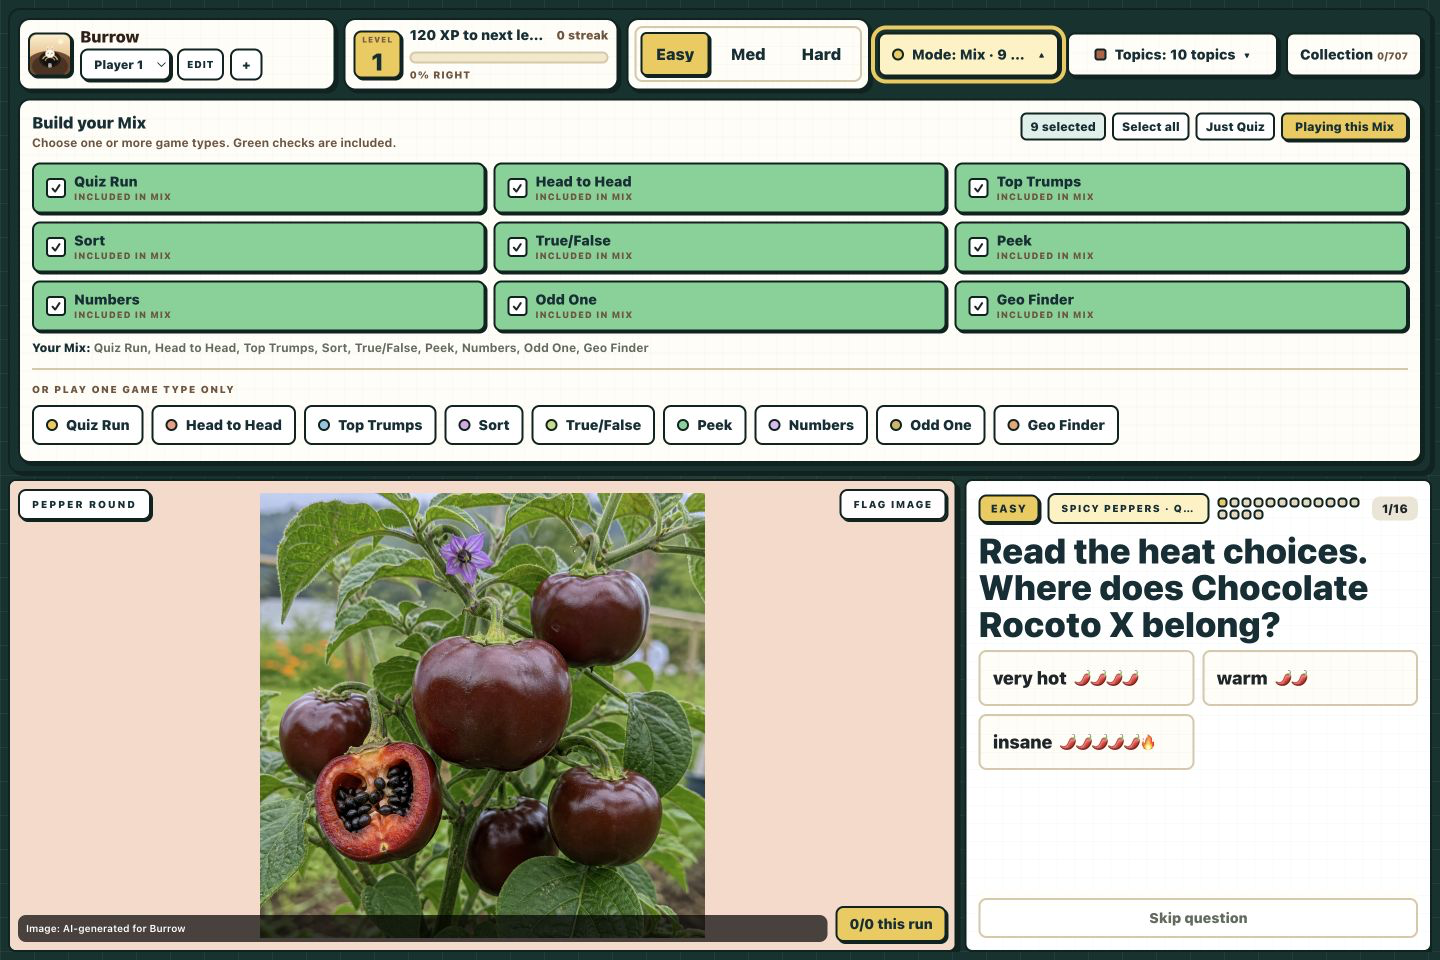
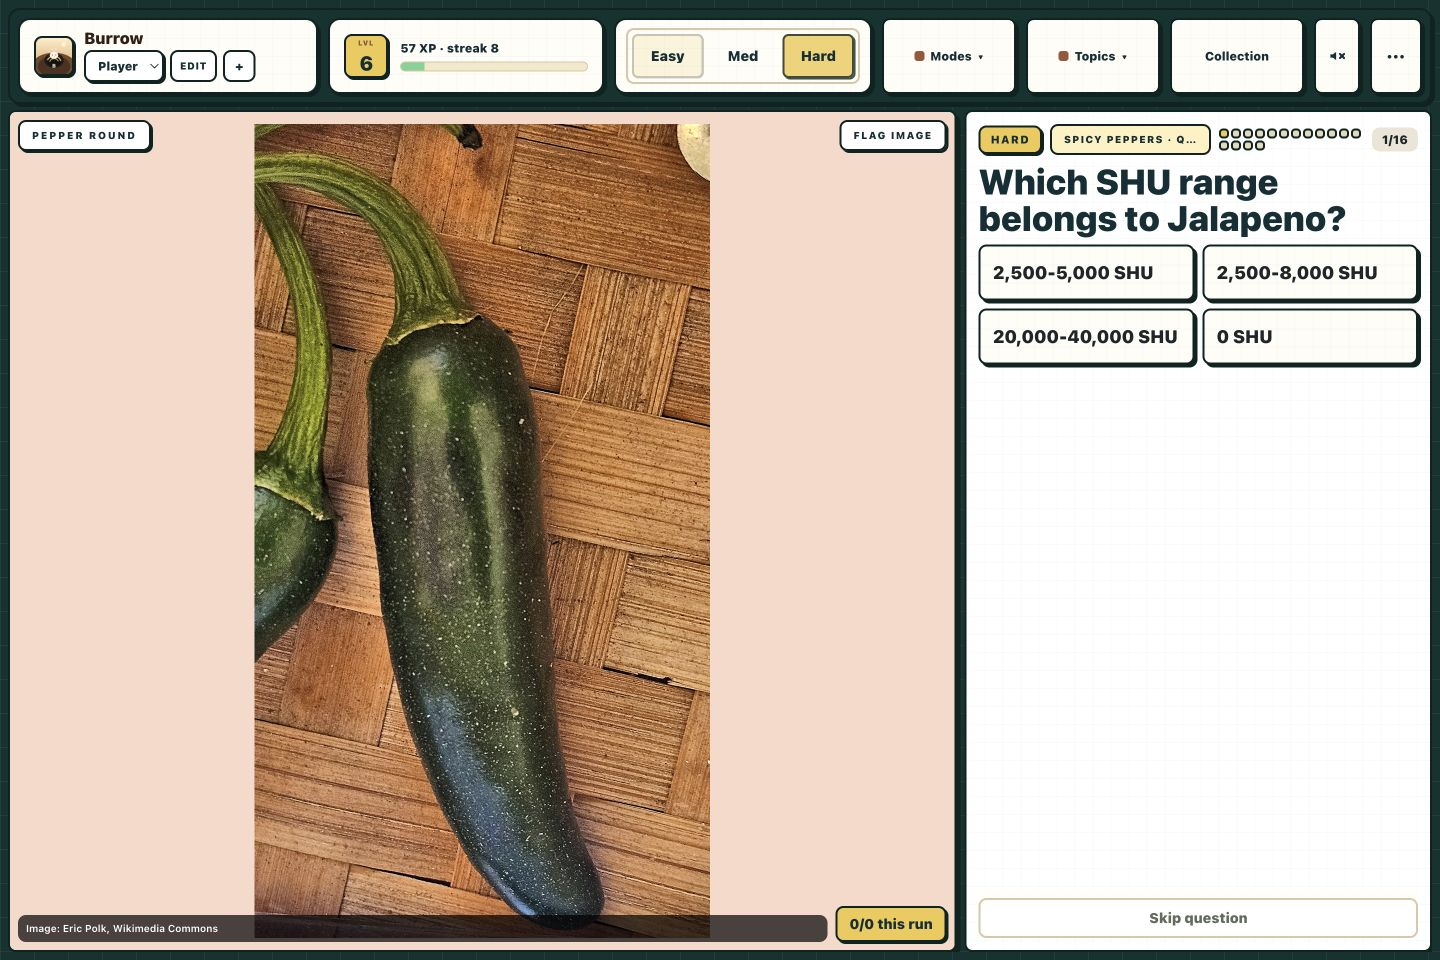
Refresh README accuracy

diff --git a/README.md b/README.md
@@ -1,6 +1,6 @@
 # Burrow
 
-Burrow is a local-first learning game that turns a kid's current obsession into short, visual reading, math, science, and geography sessions. Choose the topics, build a custom Mix of game types, and let Burrow keep the practice varied while progress and collections grow.
+Burrow is a local-first learning game that turns a kid's current obsession into short, visual reading, math, science, and geography sessions. Choose the topics, combine the game types that fit, and let Burrow keep the practice varied while progress and collections grow.
 
 [![CI](https://github.com/amamujee/burrow/actions/workflows/ci.yml/badge.svg)](https://github.com/amamujee/burrow/actions/workflows/ci.yml)
 
@@ -8,19 +8,19 @@ Burrow is a local-first learning game that turns a kid's current obsession into 
 
 ## What Burrow Does
 
-- Makes **Mix** a first-class multi-select: include any combination of Quiz Run, Head to Head, Top Trumps, Sort, True/False, Peek, Numbers, Odd One, and Geo Finder.
+- Makes game selection a first-class multi-select: include any combination of Quiz Run, Head to Head, Top Trumps, Sort, True/False, Peek, Numbers, Odd One, and Geo Finder.
 - Keeps single-mode play available when a child wants to focus on one game type.
-- Ships with ten topic packs: peppers, skyscrapers, sharks, space, jets, countries and flags, dinosaurs, mountains, tall trees, and bridges and tunnels.
+- Ships with ten topic packs: peppers, skyscrapers, sharks, space, jets, countries and flags, dinosaurs, tallest mountains, tall trees, and bridges and tunnels.
 - Uses real facts, comparable stats, maps, and credited local images to teach in context.
 - Adapts future questions using recent answers and revisits concepts that need more practice.
 - Unlocks collection cards through correct answers while preserving separate progress for each player.
 - Stores player progress locally and caches the app shell and learning assets for offline use.
 
-![Burrow custom Mix and game screen](docs/screenshots/play.png)
+![Burrow game selection and play screen](docs/screenshots/play.png)
 
 ## How the Content Is Organized
 
-The six core catalogs—peppers, skyscrapers, sharks, space, jets, and countries—are wired through `src/lib/game-data.ts`, with country records in `src/lib/countries-data.ts`. Contributor-friendly playable packs live under `content/packs/` and are loaded by the app when their `pack.json` has `"status": "playable"`.
+Five core catalogs—peppers, skyscrapers, sharks, space, and jets—live in `src/lib/game-data.ts`; the 200-country catalog lives in `src/lib/countries-data.ts`. Four contributor-friendly playable packs—dinosaurs, tallest mountains, tall trees, and bridges and tunnels—live under `content/packs/` and are loaded by the app when their `pack.json` has `"status": "playable"`.
 
 Every card includes structured facts, comparable stats, local imagery, and image provenance. Gameplay never needs to hotlink topic images from the internet.
 
@@ -48,7 +48,7 @@ npm run build          # Create a production build
 npm run start          # Run the production build
 npm run lint           # Run ESLint
 npm run validate:packs # Validate repo-authored pack JSON files
-npm run check:images   # Verify gameplay images are local and present
+npm run check:images   # Verify local image files and report duplicates
 npm run qa:content     # Run content-quality checks
 npm run test:logic     # Run logic and content coverage
 npm run test:e2e       # Build and run browser coverage
